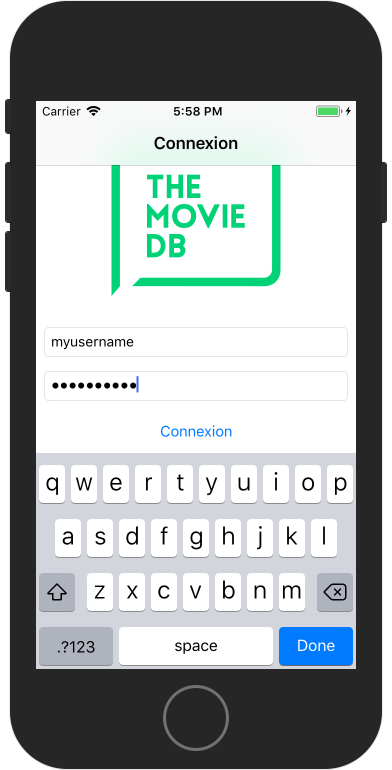
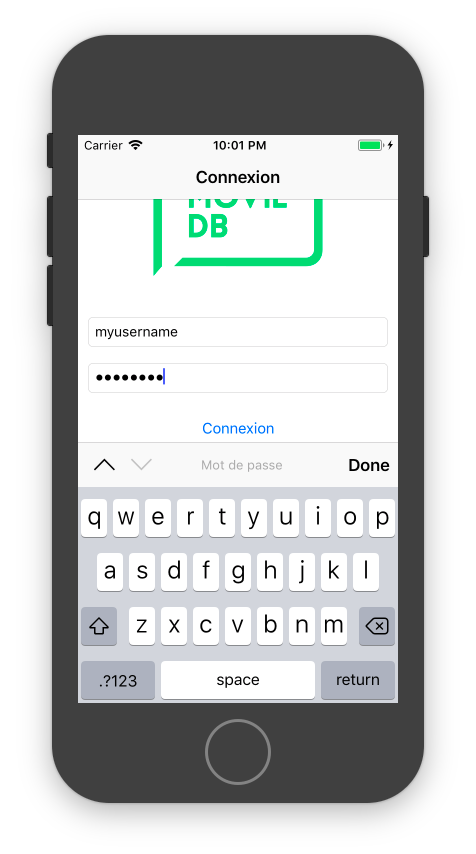
Mise à jour de l'atelier 6 pour utiliser IQKeyboardManager au lieu du UITableViewController

diff --git a/atelier-6-login.md b/atelier-6-login.md
@@ -28,24 +28,22 @@ Reprenez le projet Xcode de l'atelier 5, où vous aviez affiché une liste de fi
 Ce 1er exercice consiste à réaliser la partie interface graphique uniquement. 
 Il s'agit de créer un formulaire comprenant deux champs textes (UITextField), un pour l'identifiant et un pour le mot de passe, ainsi qu'un bouton « Connexion ». 
 
-Pour implémenter ce formulaire, vous allez utiliser un UITableViewController avec des cellules statiques.
-L'intérêt d'utiliser un UITableViewController est qu'il va s'occuper de la gestion du clavier pour vous, ce qui n'est pas le cas dans un UIViewController ([Gestion du clavier sans UITableViewController](https://developer.apple.com/library/content/documentation/StringsTextFonts/Conceptual/TextAndWebiPhoneOS/KeyboardManagement/KeyboardManagement.html)).
+Pour implémenter ce formulaire, vous allez utiliser une UIScrollView et le pod [IQKeyboardManagerSwift](https://cocoapods.org/pods/IQKeyboardManagerSwift).
+L'intérêt d'utiliser ce pod est qu'il va s'occuper de faire scroller les champs texte à la montée du clavier, ce qui n'est pas le cas par défaut sur iOS ([Gestion du clavier](https://developer.apple.com/library/content/documentation/StringsTextFonts/Conceptual/TextAndWebiPhoneOS/KeyboardManagement/KeyboardManagement.html)).
 
 ![](/assets/login.png)
 
-Lorsque le champ texte de l'identifiant est sélectionné, le clavier doit comporter un bouton « Next », comme dans la capture d'écran ci-dessous.
-Lorsque l'utilisateur clique sur le bouton « Next », le champ du mot de passe obtient le focus.
-Si l'utilisateur « scroll » vers le bas, les différents éléments de l'écran doivent s'afficher correctement, en particulier le bouton « Connexion ».
-
-![](/assets/login-next.png)
-
-Lorsque le champ texte du mot de passe est sélectionné, le clavier doit comporter un bouton « Done ».
-Lorsque l'utilisateur clique sur le bouton « Done », la validation de l'identifiant et du mot de passe est réalisée via un appel à l'API de themoviedb.org.
+Si le clavier est affiché, et que l'utilisateur « scroll » vers le bas, les différents éléments de l'écran doivent s'afficher correctement, en particulier le bouton « Connexion ».
+Lorsque l'utilisateur clique sur le bouton « Connexion », la validation de l'identifiant et du mot de passe est réalisée via un appel à l'API de themoviedb.org.
 Le champ texte du mot de passe doit cacher le mot de passe, comme dans la capture d'écran ci-dessous.
 
 ![](/assets/login-done.png)
 
-Indication : vous allez avoir besoin des méthodes becomeFirstResponder et resignFirstResponder du UITextField, ainsi que de son delegate.
+Dans AppDelegate.swift, activez IQKeyboardManagerSwift en ajoutant la ligne suivante dans la méthode didFinishLaunchingWithOptions :
+
+```swift
+IQKeyboardManager.sharedManager().enable = true
+```
 
 Validez que tout fonctionne correctement en lançant l'application dans le simulateur de l'iPhone SE.
 
@@ -195,10 +193,11 @@ Si vous avez le temps, vous pouvez implémenter l'ajout d'un film à la « Watch
 De nombreuses applications permettent à l'utilisateur de se connecter via leur compte Facebook, dans le cadre d'une authentification OAuth2.
 Si vous voulez en savoir, vous pouvez lire la [documentation Facebook](https://developers.facebook.com/docs/facebook-login/ios) sur le sujet.
 
-### Gestion du clavier en dehors d'un UITableViewController
+### Gestion du clavier avec un UITableViewController
 
-Comme mentionné plus haut, la gestion du clavier sans UITableViewController nécessite d'écrire du code spécifique pour répondre à l'apparition et à la disparition du clavier, comme décrit dans la [documentation d'Apple](https://developer.apple.com/library/content/documentation/StringsTextFonts/Conceptual/TextAndWebiPhoneOS/KeyboardManagement/KeyboardManagement.html).
-Écrire du code pour gérer le clavier n'est pas trivial, et même l'exemple d'Apple ne gère pas correctement certains détails. Il existe également des pods qui gèrent le clavier, comme par exemple IQKeyboardManager.
+On peut utiliser un UITableViewController pour gérer le scroll à l'apparition du clavier.
+Comme mentionné plus haut, la gestion du clavier nécessite d'écrire du code spécifique pour répondre à l'apparition et à la disparition du clavier, comme décrit dans la [documentation d'Apple](https://developer.apple.com/library/content/documentation/StringsTextFonts/Conceptual/TextAndWebiPhoneOS/KeyboardManagement/KeyboardManagement.html).
+Écrire du code pour gérer le clavier n'est pas trivial, et même l'exemple d'Apple ne gère pas correctement certains détails.
 
 ### Autre pod pour le feedback utilisateur
 
